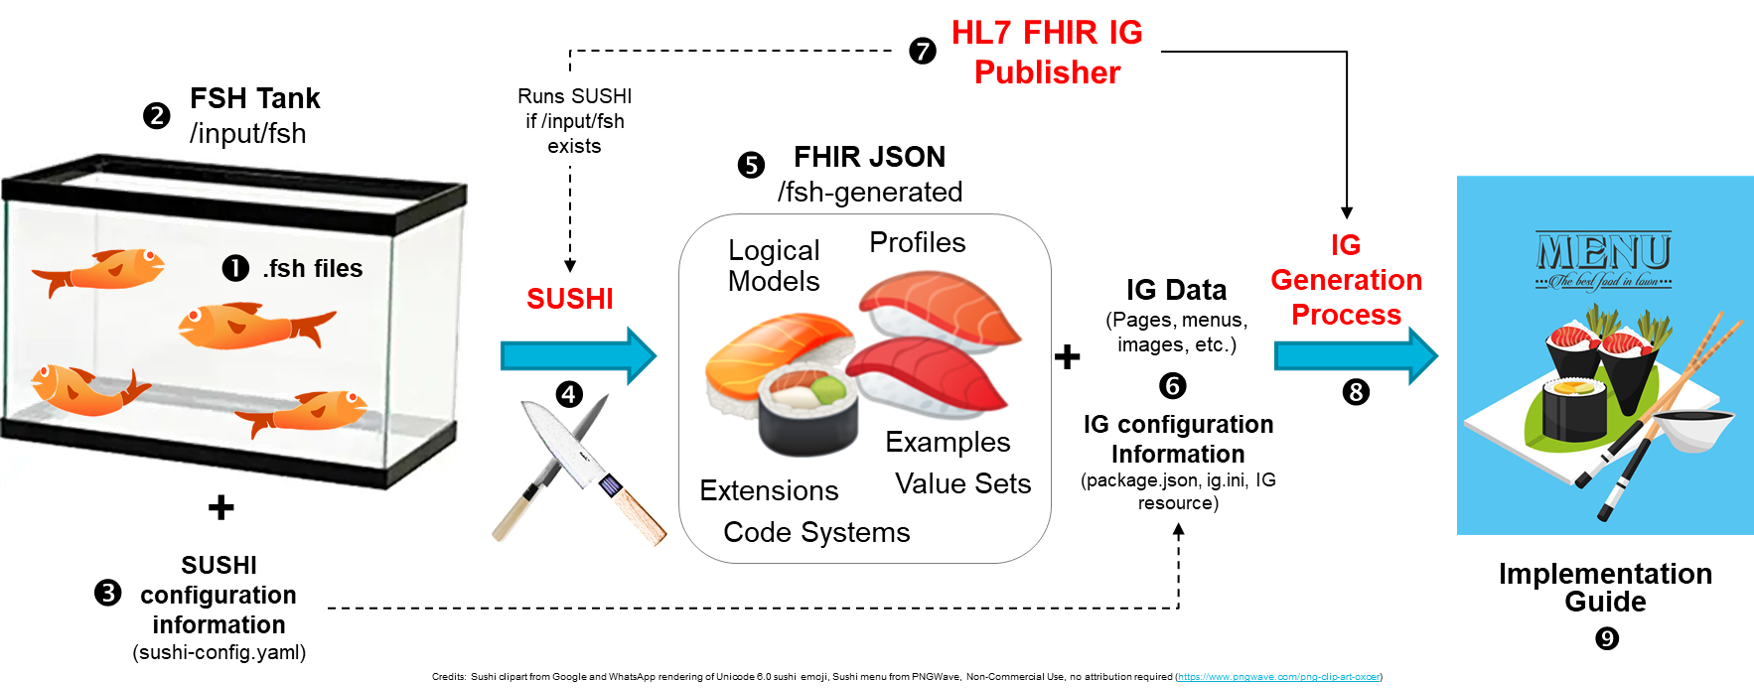
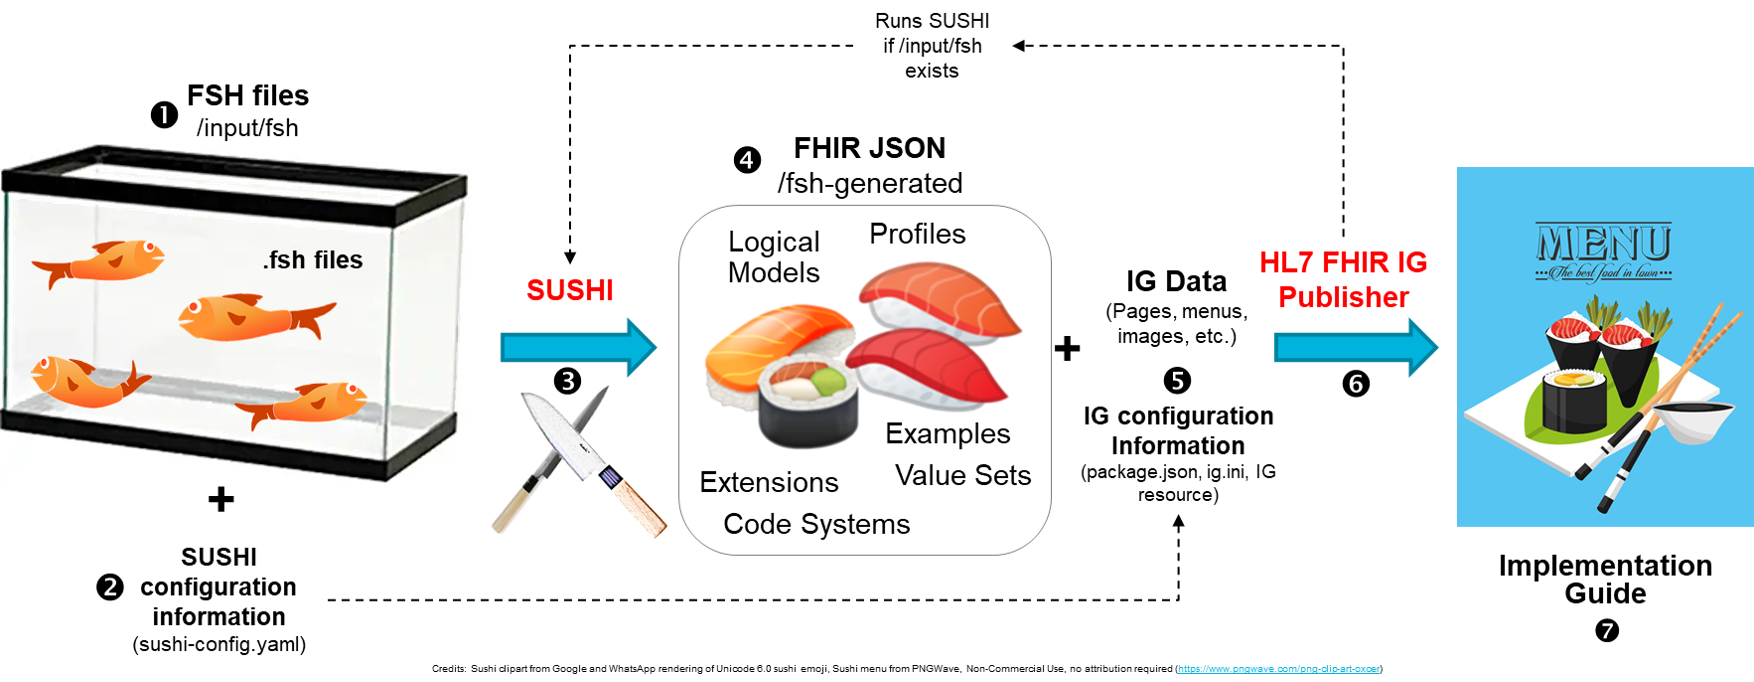
Updates based on Chris' review

diff --git a/input/pagecontent/overview.md b/input/pagecontent/overview.md
@@ -109,9 +109,9 @@ Keywords that declare new items (like the `Profile` keyword in the previous exam
 * RuleSet
 * ValueSet
 
-Note that not every type of FSH item has a direct FHIR equivalent. Alias and RuleSet are strictly FSH constructs, while Mappings and Invariants appear only as elements within a SD.
+Note that not every type of FSH item has a direct FHIR equivalent; Alias and RuleSet are strictly FSH constructs, while Mappings and Invariants appear only as elements within a SD. Each type of item has a different set of required and optional keywords, detailed in the [FSH Language Reference](reference.html#defining-items).
 
-Each type of item has a different set of required and optional keywords, detailed in the [FSH Language Reference](reference.html#defining-items).
+These are not the only [conformance resources in FHIR](https://www.hl7.org/fhir/R4/conformance-module.html). Others include CapabilityStatement, OperationDefinition, SearchParameter, and CompartmentDefinition. Currently, you can create any of these types as instances; for example, using `InstanceOf: CapabilityStatement`. RuleSets can simplify definition of these items. In this IG, we provide a [downloadable template](CapabilityStatementTemplate.fsh) for a CapabilityStatement.
 
 > **Note:** Keywords are case-sensitive.
 
@@ -283,51 +283,32 @@ The [formal syntax of rules](reference.html#rules-for-profiles-extensions-logica
 
 ### FSH in Practice
 
-This section presents an overview of how the FSH language is put into practice using [SUSHI](https://fshschool.org). The descriptions here are subject to change and represent the functionality in SUSHI as of the STU 1 publication date. The discussion in this section refers to the numbers in the following figure:
+This section presents an overview of how the FSH language is put into practice using [SUSHI](https://fshschool.org). [SUSHI](https://fshschool.org/docs/sushi/) (an acronym for "**S**USHI **U**nshortens **SH**orthand **I**nputs") is a reference implementation of a FSH compiler that translates FSH into FHIR artifacts such as profiles, extensions, and value sets. The process for installing SUSHI is described [here](https://fshschool.org/docs/sushi/installation/).
+
+The discussion in this section refers to the numbers in the following figure:
 
 <img src="Workflow.png" alt="Overall FSH Workflow" width="800px" style="float:none; margin: 0px 0px 0px 0px;" />
 
-#### FSH Projects and FSH Files
+#### Preparing FSH Files
 
-Content written in FSH is stored in plain text files (ASCII or UTF-8) with `.fsh` extensions (1). Profiles, extensions, value sets, code systems, examples, and other FHIR artifacts are defined in FSH files.
+Content written in FSH is stored in plain text files (ASCII or UTF-8) with the `.fsh` extension (1). Any text editor can be used to create a FSH file. [Visual Studio Code](https://code.visualstudio.com/) has a useful [FSH plug-in](https://marketplace.visualstudio.com/search?term=fhir%20shorthand&target=VSCode&category=Programming%20Languages&sortBy=Relevance) that knows FSH syntax and colorizes text accordingly.
 
-Any text editor can be used to create a FSH file. [Visual Studio Code](https://code.visualstudio.com/) has a useful [FSH plug-in](https://marketplace.visualstudio.com/search?term=fhir%20shorthand&target=VSCode&category=Programming%20Languages&sortBy=Relevance) that knows FSH syntax and colorizes text accordingly.
+SUSHI lets the author decide how to allocate FSH definitions to FSH files. Here are some possibilities:
 
-It is up to the author to decide how to divide FSH definitions between the FSH files. Here are some possibilities:
+* One file per item
+* All profile definitions in one file, all value set definitions in another, all extensions in another, etc.
+* Group related items in one file, e.g., a profile together with its value sets, extensions, and examples
+* Create subdirectories for each type of item (profiles, extensions, value sets), with separate files for each item of the corresponding type inside those subdirectories.
 
-* Divide up according to the item type: profiles in one file, value sets in another, extensions in another, etc.
-* Group things logically, for example, a profile together with its value sets, extensions, and examples.
-* Use one file for each item, and potentially divide similar items into subdirectories.
+#### Running SUSHI
 
-A **FSH Tank** (2) refers to a directory named **/fsh** including subdirectories, that contains `.fsh` files.  A FSH Tank represents a module that can be placed under source code control. FHIR artifacts defined elsewhere (such as profiles from another IG) are "external" and their IGs must be declared in dependencies.
+Before running SUSHI, you must create a [configuration file named **sushi-config.yaml**](https://fshschool.org/docs/sushi/configuration/) (2) containing some basic information about the project, such as its canonical URL.
 
-#### SUSHI
+When SUSHI runs (3), it gathers all FSH files from the hierarchy of a given input directory (1), and writes generated FHIR JSON artifacts to a given output directory (4). The input and output directories appear as SUSHI command line arguments. If unspecified, the input directory will default to the current directory, and outputs will be written to **./fsh-generated**.
 
-[SUSHI](https://fshschool.org/docs/sushi/) (an acronym for "**S**USHI **U**nshortens **SH**orthand **I**nputs") (4) is a reference implementation of a FSH compiler that translates FSH into FHIR artifacts such as profiles, extensions, and value sets. SUSHI is installed on your own computer and runs locally from the command line. Installing SUSHI is described [here](https://fshschool.org/docs/sushi/installation/).
+SUSHI can be run from the command line or invoked as part of the [HL7 FHIR IG Publisher](https://confluence.hl7.org/display/FHIR/IG+Publisher+Documentation) (6). The latter requires some additional configuration information and other IG data (5). The IG Publisher also requires a [specific project structure](https://fshschool.org/docs/sushi/project/). FSH files must appear a directory under the project root, **[root]/input/fsh** (1), or SUSHI will not run. The generated SUSHI output is found in the **[root]/fsh-generated** directory (4), and the implementation guide itself (7) is located in **[root]/output/fsh**.
 
-SUSHI can be used in two modes:
-
-* A [standalone mode](#sushi-standalone-mode) where SUSHI produces FHIR artifacts only.
-* A [IG mode](#sushi-ig-mode) where SUSHI works together with the [HL7 FHIR IG Publisher](https://confluence.hl7.org/display/FHIR/IG+Publisher+Documentation). The IG Publisher builds the human-readable web pages and bundles FHIR artifacts produced by SUSHI to produce an Implementation Guide.
-
-#### SUSHI Standalone Mode
-
-In the standalone mode, SUSHI runs independently of the IG Publisher. This is a good option to quickly check for errors when you are creating your FSH code, or if you are only interesting in creating FHIR artifacts without an IG. Creating FHIR artifacts with FSH and SUSHI in standalone mode involves the following steps:
-
-1. Populate a FSH Tank (2) with FSH files (1) containing your FSH definitions.
-2. Create a **[sushi-config.yaml](https://fshschool.org/docs/sushi/configuration/)** file (3).
-3. Run SUSHI (4). After SUSHI runs, a new directory (named **/fsh-generated** by default) appears in the FSH Tank. This directory contains FHIR artifacts (5) such as profiles, extensions, value sets, and instances.
-
-#### SUSHI IG Mode
-
-Creating an IG with FSH and SUSHI involves the following steps:
-
-1. Create FSH definitions in FSH files (1) in a directory (FSH Tank) named **./input/fsh** (2).
-2. Create a **[sushi-config.yaml](https://fshschool.org/docs/sushi/configuration/)** file (3).
-3. Provide additional inputs for the IG, including static pages, images, navigation menu configurations (6).
-4. Run the IG Publisher (7). The IG Publisher will detect the **./input/fsh** directory (2) and run SUSHI (4) to produce FHIR Artifacts (5) before running the remaining IG publishing steps (8), to produce the IG (9).
-
-For more information on both of these modes of using SUSHI, see [the SUSHI Documentation](https://fshschool.org/docs/sushi/).
+For more information on the use of SUSHI, see [the SUSHI Documentation](https://fshschool.org/docs/sushi/).
 
 ### FSH Line-by-Line Walkthrough
 
@@ -426,21 +407,12 @@ A few things to note about this example:
 * The example assumes the items are all in one file, but they could be in separate files. The allocation of items to files is the author's choice. Aliases defined in one file can be referred to in other files.
 * Most of the rules refer to elements by their FHIR names, but when the rule refers to an element that is not at the top level, more complex paths are required. An example of a complex path occurs on line 10, `extension[evidenceType].valueCodeableConcept`. The Language Reference contains [further descriptions of paths](reference.html#fsh-paths).
 
-### Future Considerations
+### Issue Reporting and Contribution
 
-In this introduction, we presented an overview of FSH. Not all features were covered. A complete accounting of the language is found in the [FSH Language Reference](reference.html).
+* FSH language issues and suggestions can be made [in the HL7 Jira](https://jira.hl7.org/browse/FHIR-27321?jql=project%3D%22FHIR%22%20AND%20Specification%20%3D%20%22Shorthand%20(FHIR)%20%5BFHIR-shorthand%5D%22%20). When filing FSH language or IG issues, use project="FHIR" AND Specification = "Shorthand (FHIR) [FHIR-shorthand]".
 
-While this version of FSH is capable of producing sophisticated IGs, future versions may introduce additional features. FSH language suggestions are welcome, and can be made [in the HL7 Jira](https://jira.hl7.org/browse/FHIR-27321?jql=project%3D%22FHIR%22%20AND%20Specification%20%3D%20%22Shorthand%20(FHIR)%20%5BFHIR-shorthand%5D%22%20). SUSHI issues and suggestions can be made [here](https://github.com/FHIR/sushi/issues).
+* SUSHI bugs, issues, and suggestions can be made [here](https://github.com/FHIR/sushi/issues).
 
-> **Note:** When filing FSH language or IG issues, use project="FHIR" AND Specification = "Shorthand (FHIR) [FHIR-shorthand]".
-
-Some of the features for FSH under consideration include (in no particular order):
-
-* **Improved Slicing Support:** Currently, slicing requires the user to specify discriminator type, path, and slicing rules. A future version of SUSHI may handle slicing situations without explicit declarations by the user. However, common slicing patterns now can be captured in RuleSets, lessening the need for this feature.
-
-* **Multiple Language Support:** At present, FSH supports only one language at a time (it can be any language). In the future, FSH and SUSHI may introduce mechanisms for generating the same IG in multiple languages.
-
-* **Capability Statements (and other conformance resources):** The FSH language supports creation of SDs, and tools like SUSHI address creation of ImplementationGuide resources. However, these are not the only [conformance resources in FHIR](https://www.hl7.org/fhir/R4/conformance-module.html). Others include CapabilityStatement, OperationDefinition, SearchParameter, and CompartmentDefinition. Currently, you can create any of these types as instances; for example, using `InstanceOf: CapabilityStatement`. To make this easier, we provide a [downloadable template](CapabilityStatementTemplate.fsh) for a CapabilityStatement. There may be [other approaches](https://chat.fhir.org/#narrow/stream/215610-shorthand/topic/CapabilityStatement) that could create a CapabilityStatement more directly from requirements. Purpose-specific syntax could also be employed for other conformance resources such as SearchParameter and OperationDefinition.
-
+* FSH examples for inclusion in FSH Online can be contributed [here](https://github.com/FSHSchool/FSHOnline-Examples).
 
 **[Continue to FSH Language Specification ->](reference.html)**

diff --git a/input/pagecontent/reference.md b/input/pagecontent/reference.md
@@ -73,7 +73,7 @@ Here are some examples of curly braces and angle brackets used in this Guide:
 
 #### Projects
 
-The main organizing construct is a FSH project (sometimes called a "[FSH Tank](https://fshschool.org/docs/sushi/project/#simple-fsh-projects)"). Each project MUST have an associated canonical URL, used for constructing canonical URLs for items created in the project. It is up to implementations to decide how this association is made. Typically, one FSH project equates to one FHIR Implementation Guide (IG).
+The main organizing construct is a FSH project. Each project MUST have an associated canonical URL, used for constructing canonical URLs for items created in the project. It is up to implementations to decide how this association is made. Typically, one FSH project equates to one FHIR Implementation Guide (IG).
 
 #### Files
 
@@ -81,9 +81,9 @@ Content in one FSH project MAY be contained in one or more FSH files. Files MUST
 
 > **Note:** FSH can also be contained in other ways, such as in a database or in a form field, and still be valid FSH. We assume FSH files for presentation purposes.
 
-The items defined by FSH are: [Aliases](#defining-aliases), [Profiles](#defining-profiles), [Extensions](#defining-extensions), [Instances](#defining-instances), [Value Sets](#defining-value-sets), [Code Systems](#defining-code-systems), [Mappings](#defining-mappings), [Rule Sets](#defining-rule-sets), and [Invariants](#defining-invariants). How items are divided among files is not meaningful in FSH, and items from all files in one project can be considered pooled together for the purposes of FSH.
+The items defined by FSH are: [Aliases](#defining-aliases), [Extensions](#defining-extensions), [Instances](#defining-instances), [Value Sets](#defining-value-sets), [Code Systems](#defining-code-systems), [Mappings](#defining-mappings), [Rule Sets](#defining-rule-sets), [Invariants](#defining-invariants), [Logical Models](#defining-logical-models) [Profiles](#defining-profiles), and [Resources](#defining-resources). 
 
-Items can appear in any order within **.fsh** files, and can be moved around within a file or to other **.fsh** files in the same project without affecting the interpretation of the content.
+The allocation of items to files is not meaningful in FSH, and items from all files in one project can be considered globally pooled for the purposes of FSH. Items can appear in any order within **.fsh** files, and items can be moved inside and between **.fsh** files within the same project without affecting the interpretation of the content.
 
 #### Dependency on FHIR Version
 

diff --git a/input/pagecontent/index.md b/input/pagecontent/index.md
@@ -46,12 +46,12 @@ This Implementation Guide has been balloted as Standard for Trial Use (STU) with
 |----|----|----|----|
 | Author | Mark A. Kramer | MITRE Corporation | mkramer@mitre.org |
 | Author | Chris Moesel | MITRE Corporation | cmoesel@mitre.org |
-| Contributor | Joe Paquette | **athena**health | |
 | Contributor | Julia K. Afeltra | MITRE Corporation | jafeltra@mitre.org |
-| Contributor | Nick Freiter | MITRE Corporation | nfreiter@mitre.org |
-| Contributor | Mint N. Thompson | MITRE Corporation | mathompson@mitre.org |
-| Contributor | Julian Alexander Carter | MITRE Corporation | jacarter@mitre.org |
+| Contributor | Julian A. Carter | MITRE Corporation | jacarter@mitre.org |
 | Contributor | Samantha Citron | MITRE Corporation | scitron@mitre.org |
+| Contributor | Nick Freiter | MITRE Corporation | nfreiter@mitre.org |
+| Contributor | Joe Paquette | **athena**health | |
+| Contributor | Mint N. Thompson | MITRE Corporation | mathompson@mitre.org |
 | FHIR Infrastructure Co-chair | Rick Geimer | Lantana Consulting Group | rick.geimer@lantanagroup.com |
 | FHIR Infrastructure Co-chair | Josh Mandel | SMART Health IT | jmandel@gmail.com |
 | FHIR Infrastructure Co-chair | Lloyd McKenzie | HL7 Canada/Gevity | lloyd@lmckenzie.com |
